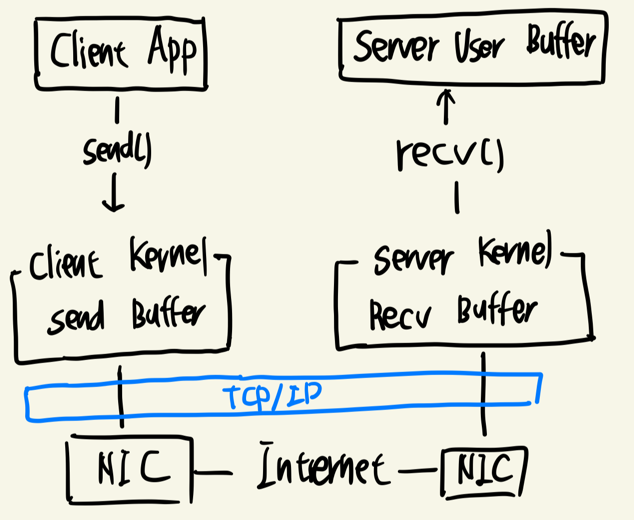
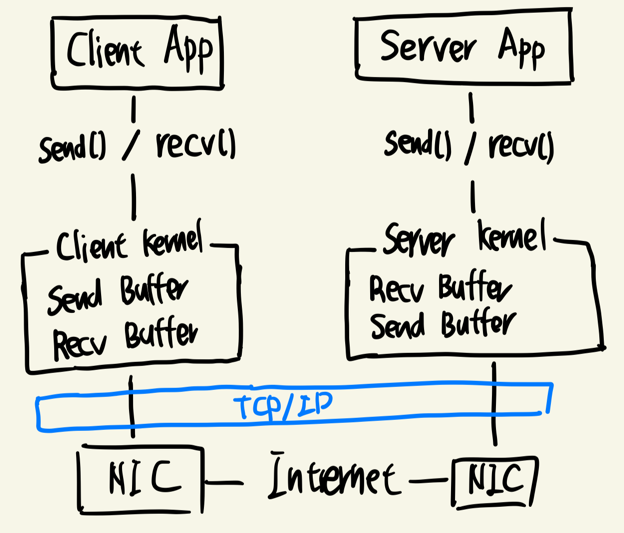
양방향 흐름으로 그림 수정

Changed region(s): [[0.0, 0.0, 0.9744, 0.9846]]

diff --git a/Networks/DongChyeon/2025-09-19-DongChyeon-TCP_소켓과_UDP_소켓_연결_및_종료_과정_비교.md b/Networks/DongChyeon/2025-09-19-DongChyeon-TCP_소켓과_UDP_소켓_연결_및_종료_과정_비교.md
@@ -64,10 +64,18 @@ topic: TCP 소켓과 UDP 소켓 연결 및 종료 과정 비교
 
 ![send()/recv() 호출](assets/send_recv.png)
 
-- send()
-  - 유저 공간 -> 커널 송신 버퍼 -> TCP 세그먼트화 -> IP 계층 -> NIC 전송
-- recv()
-  - NIC 수신 -> IP 계층 -> TCP 조립(순서/재전송 처리) -> 커널 수신 버퍼 -> 유저 공간
+1. Client → Server
+   - send() 호출 — 클라이언트 애플리케이션이 데이터를 네트워크로 보내기 시작.
+   - 커널 처리 — TCP/IP 스택이 데이터를 패킷 단위로 나누고 전송 준비
+   - 네트워크 전송 — NIC를 통해 인터넷 경로를 거쳐 서버로 전달
+   - 수신 처리 — 서버 커널이 패킷을 받아 재조립 후 수신 버퍼에 저장
+   - recv() 호출 — 서버 애플리케이션이 수신 버퍼에서 데이터를 읽음
+2. Server → Client
+   - send() 호출 — 서버 애플리케이션이 데이터를 네트워크로 보냄
+   - 커널 처리 — TCP/IP 스택이 데이터를 패킷화하여 전송 준비
+   - 네트워크 전송 — 서버 NIC에서 인터넷을 거쳐 클라이언트로 전달
+   - 수신 처리 — 클라이언트 커널이 패킷을 수신 후 재조립해 수신 버퍼에 저장.
+   - recv() 호출 — 클라이언트 애플리케이션이 데이터를 수신
 
 ### 5. 연결 종료 (close)
 
